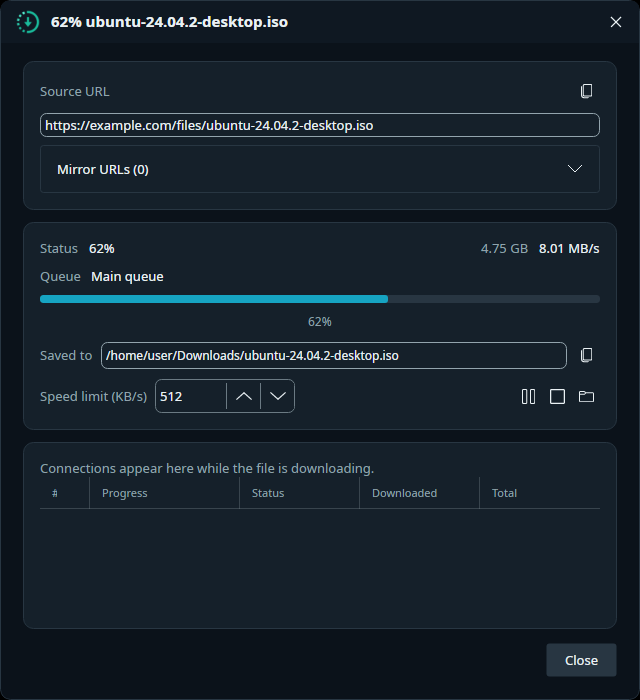
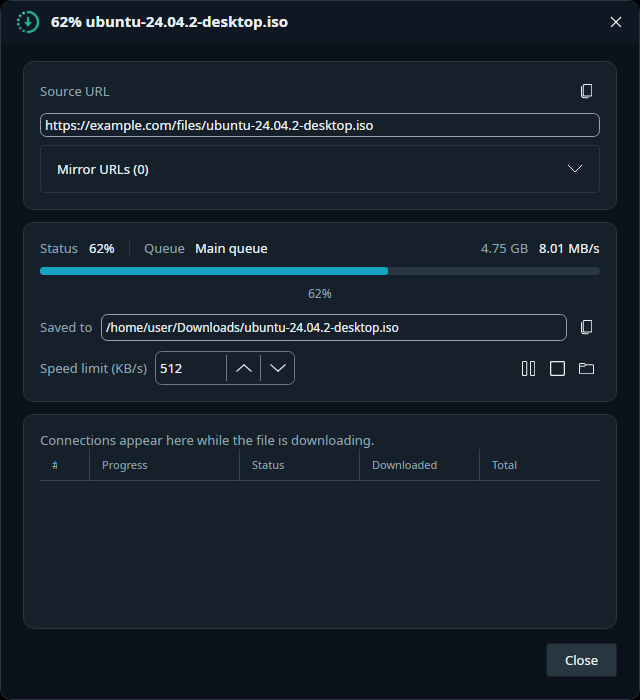
Inline queue on details status line + sticky drag ghost for grid rows
Details dialog: move the queue onto the Status line (Status 62% - Stopped |
Queue main) instead of a separate row below.

Drag-to-reorder: replace the OS DragDrop session (no moving visual on X11) with
a manual pointer-capture drag that lifts a floating ghost (a VisualBrush snapshot
of the row) onto a DragOverlay canvas, so the row visibly sticks under the cursor
and follows the pointer. Drop reorders via the existing Reorder/ReorderTo.

diff --git a/src/Downloader.Desktop/Views/DownloadsView.axaml.cs b/src/Downloader.Desktop/Views/DownloadsView.axaml.cs
@@ -3,6 +3,7 @@ using Avalonia;
 using Avalonia.Controls;
 using Avalonia.Controls.Primitives;
 using Avalonia.Input;
+using Avalonia.Media;
 using Avalonia.VisualTree;
 using Downloader.Desktop.Services;
 using Downloader.Desktop.ViewModels;
@@ -15,14 +16,15 @@ public partial class DownloadsView : UserControl
     private DownloadItemViewModel _dragRow;
     private DataGridRow _sourceRow;
     private DataGridRow _dropRow;
+    private Border _ghost;
+    private double _ghostLeft;
+    private double _ghostGrabY;
+    private bool _dragging;
 
     public DownloadsView()
     {
         InitializeComponent();
         _queueColumn = Root.Columns.FirstOrDefault(c => c.SortMemberPath == "QueueName");
-        Root.AddHandler(DragDrop.DragOverEvent, OnRowDragOver);
-        Root.AddHandler(DragDrop.DragLeaveEvent, OnRowDragLeave);
-        Root.AddHandler(DragDrop.DropEvent, OnRowDrop);
         DataContextChanged += (_, _) => HookQueueColumn();
     }
 
@@ -46,84 +48,129 @@ public partial class DownloadsView : UserControl
     }
 
     // --- Drag-to-reorder (grip handle in the first column) ---
-    // The dragged row is held in a field (in-process); the DataTransfer only carries a marker so the
-    // platform drag session is valid. Drop reads the field and reorders the master list.
+    // Manual pointer-driven drag: pressing the grip captures the pointer and lifts a floating "ghost"
+    // (a VisualBrush snapshot of the row) onto the DragOverlay canvas. The ghost follows the pointer so
+    // the row visibly sticks under the cursor; the row under the pointer is highlighted as the drop
+    // target; releasing reorders the master list. (The OS DragDrop session showed no moving visual on X11.)
 
-    private async void OnGripPointerPressed(object sender, PointerPressedEventArgs e)
+    private void OnGripPointerPressed(object sender, PointerPressedEventArgs e)
     {
         if (sender is not Control c || c.DataContext is not DownloadItemViewModel vm)
             return;
         if (!e.GetCurrentPoint(c).Properties.IsLeftButtonPressed)
             return;
 
-        _dragRow = vm;
         _sourceRow = c.FindAncestorOfType<DataGridRow>();
-        _sourceRow?.Classes.Add("dragging");
-        e.Handled = true;
-        var data = new DataTransfer();
-        data.Add(DataTransferItem.CreateText("downloader-row"));
-        try
-        {
-            await DragDrop.DoDragDropAsync(e, data, DragDropEffects.Move);
-        }
-        finally
-        {
-            ClearDragVisuals();
-            _dragRow = null;
-        }
-    }
-
-    private void OnRowDragOver(object sender, DragEventArgs e)
-    {
-        if (_dragRow == null)
-        {
-            e.DragEffects = DragDropEffects.None;
-            e.Handled = true;
+        if (_sourceRow is null)
             return;
-        }
-        e.DragEffects = DragDropEffects.Move;
 
-        // Highlight the row currently under the pointer so the drop target is obvious as it moves.
-        var row = (e.Source as Visual)?.FindAncestorOfType<DataGridRow>(includeSelf: true);
-        if (!ReferenceEquals(row, _dropRow))
+        _dragRow = vm;
+        _sourceRow.Classes.Add("dragging");
+
+        var topLeft = _sourceRow.TranslatePoint(new Point(0, 0), DragOverlay) ?? default;
+        _ghostLeft = topLeft.X;
+        _ghostGrabY = e.GetPosition(_sourceRow).Y;
+
+        _ghost = new Border
         {
-            _dropRow?.Classes.Remove("droptarget");
-            _dropRow = row;
-            if (_dropRow != null && _dropRow.DataContext is DownloadItemViewModel t && !ReferenceEquals(t, _dragRow))
-                _dropRow.Classes.Add("droptarget");
-        }
+            Width = _sourceRow.Bounds.Width,
+            Height = _sourceRow.Bounds.Height,
+            CornerRadius = new CornerRadius(6),
+            Opacity = 0.92,
+            Background = this.FindResource("SystemRegionColor") as IBrush ?? Brushes.White,
+            BorderBrush = this.FindResource("SystemAccentColor") as IBrush ?? Brushes.SteelBlue,
+            BorderThickness = new Thickness(1),
+            BoxShadow = BoxShadows.Parse("0 6 18 0 #50000000"),
+            IsHitTestVisible = false,
+            Child = new Border
+            {
+                Background = new VisualBrush(_sourceRow)
+                {
+                    Stretch = Stretch.None,
+                    AlignmentX = AlignmentX.Left,
+                    AlignmentY = AlignmentY.Top
+                }
+            }
+        };
+        Canvas.SetLeft(_ghost, _ghostLeft);
+        Canvas.SetTop(_ghost, topLeft.Y);
+        DragOverlay.Children.Add(_ghost);
+
+        _dragging = true;
+        e.Pointer.Capture(c);
         e.Handled = true;
     }
 
-    private void OnRowDragLeave(object sender, DragEventArgs e)
+    private void OnGripPointerMoved(object sender, PointerEventArgs e)
     {
+        if (!_dragging || _ghost is null)
+            return;
+
+        var p = e.GetPosition(DragOverlay);
+        Canvas.SetLeft(_ghost, _ghostLeft);
+        Canvas.SetTop(_ghost, p.Y - _ghostGrabY);
+
+        UpdateDropTarget(e.GetPosition(Root));
+        e.Handled = true;
+    }
+
+    private void OnGripPointerReleased(object sender, PointerReleasedEventArgs e)
+    {
+        if (!_dragging)
+            return;
+        _dragging = false;
+        e.Pointer.Capture(null);
+
+        var row = RowAt(e.GetPosition(Root));
+        if (row?.DataContext is DownloadItemViewModel target && DataContext is DownloadsViewModel pageVm
+            && _dragRow != null && !ReferenceEquals(target, _dragRow))
+        {
+            var placeAfter = e.GetPosition(row).Y > row.Bounds.Height / 2;
+            pageVm.Reorder(_dragRow, target, placeAfter);
+        }
+        ClearDrag();
+        e.Handled = true;
+    }
+
+    private void OnGripCaptureLost(object sender, PointerCaptureLostEventArgs e)
+    {
+        if (_dragging)
+        {
+            _dragging = false;
+            ClearDrag();
+        }
+    }
+
+    // Highlight the row currently under the pointer (skip the dragged row itself).
+    private void UpdateDropTarget(Point posInRoot)
+    {
+        var row = RowAt(posInRoot);
+        if (ReferenceEquals(row, _dropRow))
+            return;
         _dropRow?.Classes.Remove("droptarget");
         _dropRow = null;
+        if (row?.DataContext is DownloadItemViewModel t && !ReferenceEquals(t, _dragRow))
+        {
+            _dropRow = row;
+            _dropRow.Classes.Add("droptarget");
+        }
     }
 
-    private void ClearDragVisuals()
+    private DataGridRow RowAt(Point posInRoot)
+        => (Root.InputHitTest(posInRoot) as Visual)?.FindAncestorOfType<DataGridRow>(includeSelf: true);
+
+    private void ClearDrag()
     {
+        if (_ghost != null)
+        {
+            DragOverlay.Children.Remove(_ghost);
+            _ghost = null;
+        }
         _sourceRow?.Classes.Remove("dragging");
         _dropRow?.Classes.Remove("droptarget");
         _sourceRow = null;
         _dropRow = null;
-    }
-
-    private void OnRowDrop(object sender, DragEventArgs e)
-    {
-        if (_dragRow is null || DataContext is not DownloadsViewModel pageVm)
-            return;
-        if (e.Source is not Visual v)
-            return;
-
-        var row = v.FindAncestorOfType<DataGridRow>(includeSelf: true);
-        if (row?.DataContext is not DownloadItemViewModel target)
-            return;
-
-        // Dropped on the lower half of the target row → place after it, else before it.
-        var placeAfter = e.GetPosition(row).Y > row.Bounds.Height / 2;
-        pageVm.Reorder(_dragRow, target, placeAfter);
-        e.Handled = true;
+        _dragRow = null;
     }
 
     private async void OnRowDoubleTapped(object sender, TappedEventArgs e)

diff --git a/PLAN.md b/PLAN.md
@@ -12,7 +12,7 @@ so any machine/AI picks up the true last state.
 
 **Last updated**: 2026-06-23
 **Branch**: develop
-**Now working on**: (idle) — **Drag UX + queue-label fixes landed**: the grip cursor is now a vertical ↕ (`SizeNorthSouth`); during a drag the row under the pointer is highlighted (and the dragged row dimmed) so the drop target is obvious; the per-row **Queue column now actually appears** when 2+ queues exist (root cause: `AddQueue` didn't `NotifyList()`); and the **details dialog shows the queue** ("Queue: <name>"). 129 tests green; screenshots regenerated with a 2-queue scene so the Queue column is visible. See Done.
+**Now working on**: (idle) — **Details inline queue + sticky drag ghost landed**: the details dialog now shows `Status 62% · Stopped | Queue main` on one line (was a separate row); and dragging a grid row now lifts a floating **ghost** snapshot that sticks under the cursor and follows the pointer (the OS DragDrop session rendered no moving visual on X11). 129 tests green; details screenshot regenerated. See Done.
 
 Author decisions (2026-06-19 overnight batch): may cut releases autonomously; Issue 1 = just fix the false alarm (don't touch update/download mechanism); Queues = full "real queue manager" redesign (mockup approved); Instagram = R&D plan only, no code.
 
@@ -30,6 +30,7 @@ Author decisions (2026-06-19 overnight batch): may cut releases autonomously; Is
 - [ ] **HLS + Torrent plugins — NEW repo (`bezzad/downloader-plugins`), separate Claude session.** Detailed spec: `docs/plugins-hls-torrent-plan.md`. HLS = `IMediaResolver`+`IPostProcessor` (m3u8 parse → segments → ffmpeg concat/decrypt, ffmpeg on first use); Torrent = `ITransferProvider`/`ITransfer` via **MonoTorrent**. Both built + TDD'd standalone against the SDK (loopback tests). **Blocked on host Phase 2** (JobCoordinator/multi-part/ITransfer wiring) for end-to-end run in the app — but the plugins + tests can be written now.
 - [ ] **Video-site downloads (HLS/.m3u8 — YouTube/Instagram/etc.) — DEFERRED, direction LOCKED.** Plan: `docs/instagram-rnd.md` (restored 2026-06-22 after it was deleted in `1105594`). Decisions locked by the author (2026-06-22): **full Option A** = yt-dlp + ffmpeg behind an `IMediaExtractor` (multi-site, not IG-only); **download binaries on first use** (don't bundle); **generic "video sites" framing** + personal-use disclaimer; **ship = not now**. When picked up: detect page-URL vs direct file → `yt-dlp -J` → route progressive MP4 through our multipart engine, let yt-dlp+ffmpeg handle HLS/DASH/split-AV; mock-extractor tests. (Supersedes the old "Issue 3 — IG R&D plan only" item, which is done.)
 ## Done
+- [x] **Details inline queue + sticky drag ghost (develop, 129 tests green).** (1) **Details dialog queue** moved off its own line onto the **Status line**: `Status 62% · Stopped | Queue main` (multi-column Grid + thin separator + `Det_Queue` label + `Item.QueueName`, all gated by `HasQueue`; Size/Speed stay right-aligned). (2) **Sticky drag ghost** — dragging a grid row no longer relies on the OS `DragDrop` session (which renders no moving visual on Linux/X11). On grip press we capture the pointer and lift a floating **ghost** (a `VisualBrush` snapshot of the row, opaque bg + accent border + shadow) onto a `DragOverlay` `Canvas`; it follows the pointer on `PointerMoved` so the row visibly sticks under the cursor, the row underneath is highlighted (`droptarget`), and `PointerReleased` reorders via the existing `Reorder`/`ReorderTo`. No new tests needed (VM/manager API unchanged); details screenshot regenerated + verified.
 - [x] **Drag UX + queue-label follow-up fixes (develop, 129 tests green).** Three reported issues fixed: (1) **drag cursor** on the grip is now a vertical double-arrow ↕ (`SizeNorthSouth`) instead of `SizeAll`; (2) **drag feedback** — the row under the pointer is highlighted (`DataGridRow.droptarget` = translucent accent) and the dragged source row is dimmed (`.dragging`), tracked smoothly via the DragOver/DragLeave handlers, so you can always see the drop target; (3) **queue name visibility** — the per-row **Queue column never appeared** because `DownloadManager.AddQueue` didn't `NotifyList()` (so `DownloadsViewModel.ShowQueue` was never re-raised) — fixed; and the **details dialog now shows the queue** ("Queue: <name>", `Det_Queue` key, gated by `DownloadDetailsViewModel.HasQueue`). +3 tests; the screenshot scene gained a 2nd queue ("Media") so the Queue column renders in `home-*.png`. Screenshots regenerated + verified.
 - [x] **Drag-to-reorder rows in the downloads grid (develop, 127 tests green).** Added a **6-dot vertical grip handle** as the new first column of `DownloadsView` (left of the select-all checkbox). Dragging a row up/down reorders the **master `Items`** list, which is also the queue pump priority. **Cross-queue drag is allowed**: dropping onto a row that belongs to another queue moves the dragged item into that queue (it adopts the target's `QueueId`) and re-pumps both queues. A **"Queue" name column** appears in each row only when more than one queue exists (`DownloadsViewModel.ShowQueue`). List stays **flat (no grouping)** so DataGrid row virtualization is preserved. New: `GripDotsRegular` icon, `IDownloadManager.ReorderTo(vm,target,placeAfter)`, `DownloadItemViewModel.QueueName`, Avalonia-12 `DataTransfer`/`DoDragDropAsync` drag wiring (the old `DataObject` API is obsolete), `Col_Queue`/`Action_Reorder` i18n keys, +2 manager tests. Screenshots regenerated.
 - [x] **UX batch 4 (7 fixes, develop).** (1) **Footer = filter.** The bottom-bar status counts are now clickable toggle pills — **All / Downloading / Queued / Done / Failed** — that filter the downloads list (active pill accent-highlighted); "All" clears it; combines with search. Reused the orphaned `StatusFilter`/`Show*Command`/`Is*Selected` infra left over from the removed nav rail; added a disjoint `Queued` bucket (`Active`=Running/Paused, `Queued`=Created/None) so the pills don't double-count. (2) **Plugins section double border** → made it a bare `Expander` (was `Border.card` wrapping an `Expander`), matching the Advanced section. (3) **Install button fixed + de-silenced.** "nothing happened" was a swallowed failure with zero feedback: now shows an always-on in-app toast naming the installed plugin / "no plugin in that file" / the error; copies the `.deps.json` sidecar so plugins with deps resolve; the file picker now parents to the **active window** (`DialogHelper.ActiveWindow`) so it isn't opened behind the Settings modal on Linux; button text → **"Install Plugins"** (no `…`). (4)(5) Settings **combo boxes** (Language/Accent/File-exists) + text boxes sized to the NumericUpDown stepper (148 wide, 34 tall) so the right-hand column lines up. (6) **Proxy** field moved to a single line (label left, box fills the rest) — was a full-width box stacked under its label. (7) **Corrupted-after-resume.** Per author: a first-time download finishing small is fine (left alone); but a download that **started at size X, was paused/stopped, resumed, then finished smaller than X** is missing bytes → marked **Failed** with a "this file looks corrupted / incomplete" message + notification. Renamed `ExpiredLinkHeuristic`→`LooksCorruptedAfterResume`, threshold tightened from `<half` to `<known size`. 125 tests green; screenshots regenerated (footer pills + combo alignment verified light+dark).

diff --git a/.claude/skills/downloader-desktop/SKILL.md b/.claude/skills/downloader-desktop/SKILL.md
@@ -202,12 +202,22 @@ See `CLAUDE.md` at the repo root for product vision, locked decisions, and the f
 - **Manager**: `DownloadManager.ReorderTo(vm, target, placeAfter)` (on `IDownloadManager`) — `Items.Move` to the drop index (decrement when source was above target), adopt `target`'s `QueueId` if different (+ `vm.RaiseQueueNameChanged()`), `NotifyList()`, then `PumpQueue` the old and new queues. Keep `MovePriority` (±1) for the Queues page. `DownloadsViewModel.Reorder(...)` just forwards to the manager (code-behind calls it).
 - **Row VM**: `DownloadItemViewModel.QueueName` is computed live from `_manager.Queues` by `_item.QueueId` (no manual sync); `RaiseQueueNameChanged()` re-raises it after a cross-queue move.
 - **Queue column**: shown only when `DownloadsViewModel.ShowQueue` (`Queues.Count > 1`, re-raised in `Refresh()`). **An `x:Name` on a `DataGridColumn` does NOT generate a code-behind field** (CS0103) — find it instead via `Root.Columns.FirstOrDefault(c => c.SortMemberPath == "QueueName")` and set `IsVisible` from code-behind (subscribe to the VM's `PropertyChanged` for `ShowQueue`).
-- **Avalonia 12 drag-drop API changed**: `DataObject`/`DragDrop.DoDragDrop`/`DragEventArgs.Data` are **obsolete**. Use `new DataTransfer()` + `data.Add(DataTransferItem.CreateText(...))`, `await DragDrop.DoDragDropAsync(pointerArgs, data, DragDropEffects.Move)`, and read `DragEventArgs.DataTransfer`. For in-process row drag just hold the dragged VM in a private field (the DataTransfer only needs a marker item to make the session valid); set `DragDrop.AllowDrop="True"` on the grid and `Root.AddHandler(DragDrop.DragOverEvent/DropEvent, ...)`. `placeAfter = e.GetPosition(row).Y > row.Bounds.Height/2`.
+- **Avalonia 12 drag-drop API changed**: `DataObject`/`DragDrop.DoDragDrop`/`DragEventArgs.Data` are **obsolete**. `DataTransfer`/`DoDragDropAsync` exist but the **OS drag session renders NO moving visual on Linux/X11** — the row never appears to follow the cursor. **We no longer use OS DragDrop here** (see "Sticky drag ghost" below); only `ReorderTo`/`Reorder`/`placeAfter = e.GetPosition(row).Y > row.Bounds.Height/2` are kept.
 - Adding the grip column shifted the overlaid select-all checkbox: its `Margin` went `14 9 0 0` → `42 9 0 0` (28px grip + 14px).
+
+## Sticky drag ghost (manual pointer drag — replaces OS DragDrop)
+- **Why**: Avalonia's OS `DragDrop.DoDragDropAsync` shows no moving adorner on X11, so the picked-up row didn't visibly follow the pointer. The fix is a hand-rolled pointer-capture drag with a floating ghost — this is the only way to get "row sticks under the cursor" here.
+- **Overlay**: a `<Canvas x:Name="DragOverlay" IsHitTestVisible="False" ClipToBounds="False" />` is the last child of the `Panel` wrapping the DataGrid (so the ghost paints above rows).
+- **Ghost** = a `Border` (opaque `SystemRegionColor` bg, accent border, `BoxShadows.Parse("0 6 18 0 #50000000")`, Opacity ~0.92, `IsHitTestVisible=False`) whose `Child` is a `Border{ Background = new VisualBrush(sourceRow){ Stretch=None, AlignmentX=Left, AlignmentY=Top } }` — i.e. a live snapshot of the dragged `DataGridRow`. Size it to `sourceRow.Bounds`.
+- **Flow** (all in `DownloadsView.axaml.cs`, grip Border wires `PointerPressed/Moved/Released/CaptureLost`):
+  - Press: find source `DataGridRow`, add `dragging` class, build the ghost, `Canvas.SetLeft/Top` it to the row's position **translated into `DragOverlay` space** (`row.TranslatePoint(new Point(0,0), DragOverlay)`), record `_ghostGrabY = e.GetPosition(row).Y`, `e.Pointer.Capture(grip)`.
+  - Move: `Canvas.SetTop(ghost, e.GetPosition(DragOverlay).Y - _ghostGrabY)` (keep X fixed); highlight the row under the pointer via `Root.InputHitTest(e.GetPosition(Root))` → `FindAncestorOfType<DataGridRow>(includeSelf:true)` → `droptarget` class (skip the dragged row itself).
+  - Release: `RowAt(pointer)` → if a different row, `pageVm.Reorder(_dragRow, target, placeAfter)`; then `ClearDrag()` (remove ghost from overlay, drop both classes, null fields), `e.Pointer.Capture(null)`.
+  - CaptureLost: also `ClearDrag()` (covers Esc / focus steal).
+- **Gotcha**: `VisualBrush(sourceRow)` re-renders the row's *live* appearance — if you also dim the source with `Opacity`, the ghost dims too. We keep the source's `dragging` class subtle for that reason; don't crank source opacity down.
+- `DataGridRow.droptarget`/`.dragging` styles still live in `DownloadsView.axaml` `DataGrid.Styles`.
 
 ## Drag-reorder follow-up (cursor, highlight, queue label visibility)
 - **`AddQueue` MUST `NotifyList()`** — without it the main grid's `DownloadsViewModel.ShowQueue` is never re-raised, so the per-row **Queue column stays hidden** even after adding a 2nd queue (RemoveQueue already notified; AddQueue didn't — that was the "I can't see the queue name" bug).
 - **Drag cursor** = `Cursor="SizeNorthSouth"` (vertical ↕) on the grip Border (not `SizeAll`).
-- **Drag highlight** (so the drop target is obvious as the pointer moves): toggle `DataGridRow` CSS classes from code-behind — add `dragging` to the source row on grip press, and move a `droptarget` class onto the row under the pointer on each `DragOver` (clear on `DragLeave`/drop/drag-end via `ClearDragVisuals`). Styles live in `DownloadsView.axaml` `DataGrid.Styles`: `DataGridRow.droptarget` → `Background={DynamicResource RowSelectionBrush}`, `DataGridRow.dragging` → `Opacity 0.45`. Find the row under the pointer with `(e.Source as Visual)?.FindAncestorOfType<DataGridRow>(includeSelf:true)`. Add the `DragDrop.DragLeaveEvent` handler alongside DragOver/Drop.
-- **Queue shown in the details dialog**: `DownloadDetailsViewModel.HasQueue` (= `Item.QueueName` non-empty) gates a "Queue: <name>" row (`Det_Queue` i18n key) in the Summary card, bound to `Item.QueueName`.
-- **Screenshot scene** now adds a 2nd queue ("Media") and assigns a couple sample downloads to it (`Item(..., queueId)`) so the Queue column actually renders in `home-*.png`.
+- **Queue shown in the details dialog**: `DownloadDetailsViewModel.HasQueue` (= `Item.QueueName` non-empty) gates the queue display. It's **inline on the Status line** (one row): `Status 62% · Stopped | Queue main` — a multi-column Grid with a thin `Border` separator + `Det_Queue` label + `Item.QueueName`, all three gated by `HasQueue`, with Size/Speed still right-aligned. (Was a separate line below; author wanted it on the status line.)
